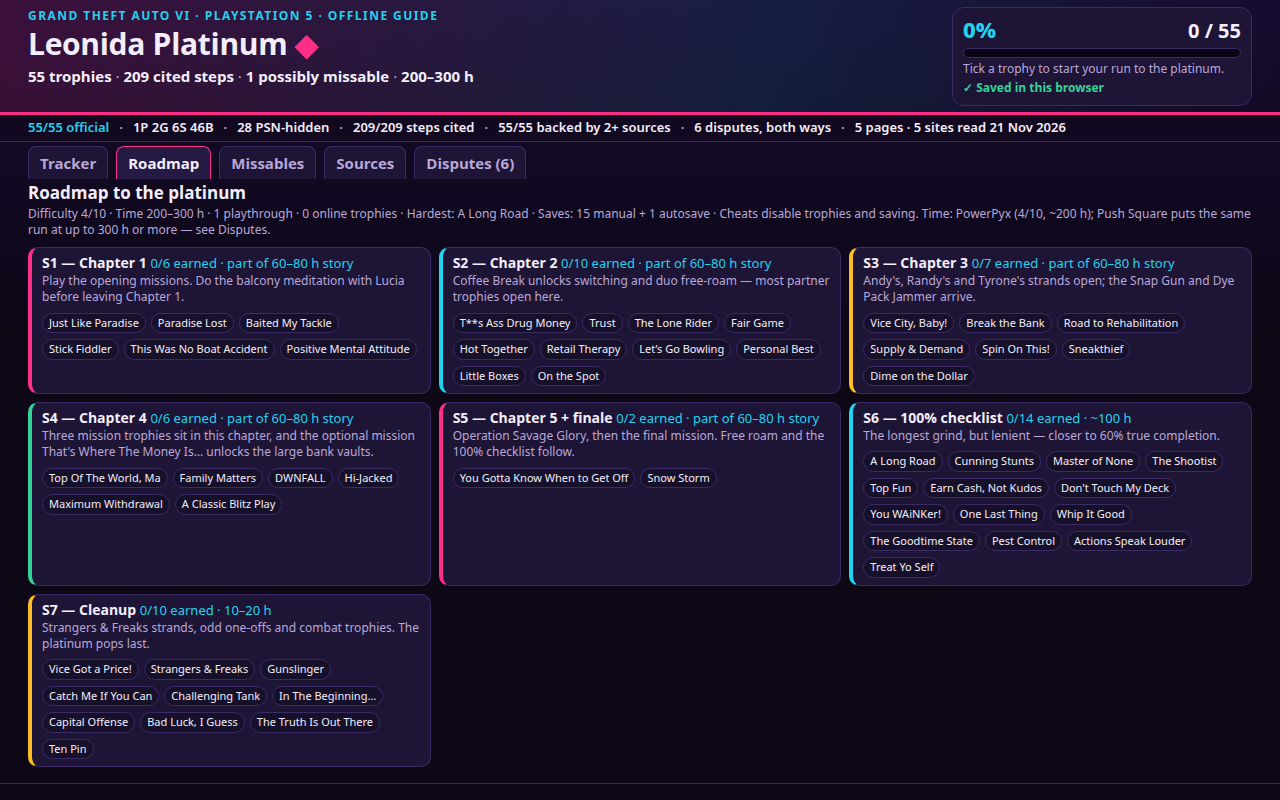
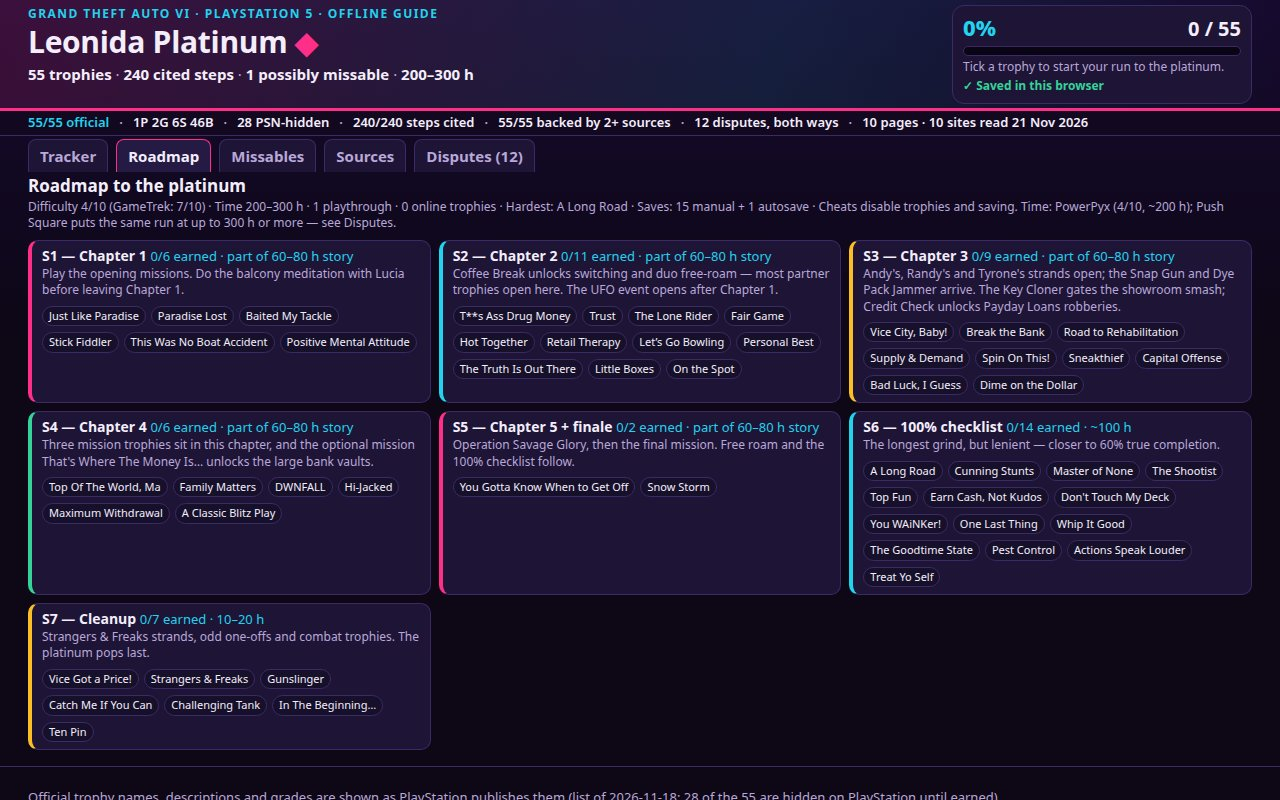
Leonida Platinum v6: all 5 hidden trophies solved (240 cited steps), 12 disputes, 10 sources; watch-missables enriched

Changed region(s): [[0.0, 0.0, 1.0, 1.0]]

diff --git a/app/index.html b/app/index.html
@@ -4,7 +4,7 @@
 <meta charset="utf-8">
 <meta name="viewport" content="width=device-width, initial-scale=1">
 <title>Leonida Platinum — GTA VI Trophy Guide &amp; Tracker</title>
-<meta name="description" content="Offline guide and tracker for all 55 PlayStation 5 trophies of Grand Theft Auto VI: 209 cited steps, a chapter roadmap, missable flags, and a checklist that saves in your browser.">
+<meta name="description" content="Offline guide and tracker for all 55 PlayStation 5 trophies of Grand Theft Auto VI: 240 cited steps, a chapter roadmap, missable flags, and a checklist that saves in your browser.">
 <link rel="stylesheet" href="style.css">
 </head>
 <body>
@@ -12,7 +12,7 @@
   <div>
     <p class="eyebrow">Grand Theft Auto VI &middot; PlayStation 5 &middot; Offline guide</p>
     <h1>Leonida Platinum</h1>
-    <p class="tagline"><strong>55 trophies</strong> &middot; <strong>209 cited steps</strong> &middot; <strong>1 possibly missable</strong> &middot; <strong>200&ndash;300 h</strong></p>
+    <p class="tagline"><strong>55 trophies</strong> &middot; <strong>240 cited steps</strong> &middot; <strong>1 possibly missable</strong> &middot; <strong>200&ndash;300 h</strong></p>
   </div>
   <div class="progress-card" id="progress-card" aria-live="polite">
     <div class="big-progress"><span id="pct">0%</span><span class="big-count" id="count">0 / 55</span></div>

diff --git a/app/app.js b/app/app.js
@@ -516,7 +516,7 @@ function renderMissables() {
   }
   root.append(gates);
   const unc = trophies.filter((t) => t.unconfirmed);
-  const note = el('p', 'miss-note', unc.length + ' trophies have an unconfirmed trigger at launch (' + unc.map((t) => t.name).join(', ') + '). They are flagged Unconfirmed in the tracker, not guessed at.');
+  const note = el('p', 'miss-note', unc.length + (unc.length === 1 ? ' trophy has' : ' trophies have') + ' an unconfirmed trigger at launch (' + unc.map((t) => t.name).join(', ') + '). ' + (unc.length === 1 ? 'It is' : 'They are') + ' flagged Unconfirmed in the tracker, not guessed at.');
   root.append(note);
   $('filter-note').textContent = 'Missable data comes from the cited guides — PowerPyx flags the one missable meditation; the watch list is this guide’s own read of the same sources.';
 }

diff --git a/main.ts b/main.ts
@@ -1,5 +1,5 @@
-// Leonida Platinum (this entry, v4): the guide is a rewritten app/ — a dark neon
-// checklist + detail panel with 209 cited steps across 50 of the 55 trophies,
+// Leonida Platinum (this entry, v6): the guide is a rewritten app/ — a dark neon
+// checklist + detail panel with 240 cited steps across all 55 trophies,
 // per-trophy counters, a chapter-keyed 7-stage platinum roadmap, a missables
 // system with story gates, and a sources/disputes audit — over the same
 // plumbing below, which copies app/ and screenshots/ to /output. The detail

diff --git a/README.md b/README.md
@@ -4,7 +4,7 @@
 [![rank](https://make.fun/badge/gta6-trophy-guide-01/0xdirosa/gta6-trophy-guide-01/rank.svg)](https://make.fun/bounty/gta6-trophy-guide-01/leaderboard?utm_source=github&utm_medium=readme&utm_campaign=gta6-trophy-guide-01)
 [![reward](https://make.fun/badge/gta6-trophy-guide-01/0xdirosa/gta6-trophy-guide-01/reward.svg)](https://make.fun/bounty/gta6-trophy-guide-01?utm_source=github&utm_medium=readme&utm_campaign=gta6-trophy-guide-01)
 
-Leonida Platinum — an offline guide and tracker for all 55 PlayStation 5 trophies of Grand Theft Auto VI: every official name, description and grade, a guide to each trophy written in our own words with its sources cited beside it, 209 cited steps across 50 of the 55 trophies, a per-trophy counter, a 7-stage chapter-keyed roadmap to the platinum, a missables system (1 possibly missable trophy, 6 watch trophies, story gates per chapter), a sources audit and 6 disputes shown both ways, and a checklist that saves in the browser with export/import, counted filter chips, text search, and a spoiler setting that hides story trophies until they are earned. Six trophies whose exact trigger was still unconfirmed at launch are marked as such rather than guessed at.
+Leonida Platinum — an offline guide and tracker for all 55 PlayStation 5 trophies of Grand Theft Auto VI: every official name, description and grade, a guide to each trophy written in our own words with its sources cited beside it, 240 cited steps across all 55 trophies, a per-trophy counter, a 7-stage chapter-keyed roadmap to the platinum, a missables system (1 possibly missable trophy, 6 watch trophies, story gates per chapter), a sources audit and 12 disputes shown both ways, and a checklist that saves in the browser with export/import, counted filter chips, text search, and a spoiler setting that hides story trophies until they are earned. One trophy whose exact trigger is still unconfirmed is marked as such rather than guessed at.
 
 ## Run it
 
